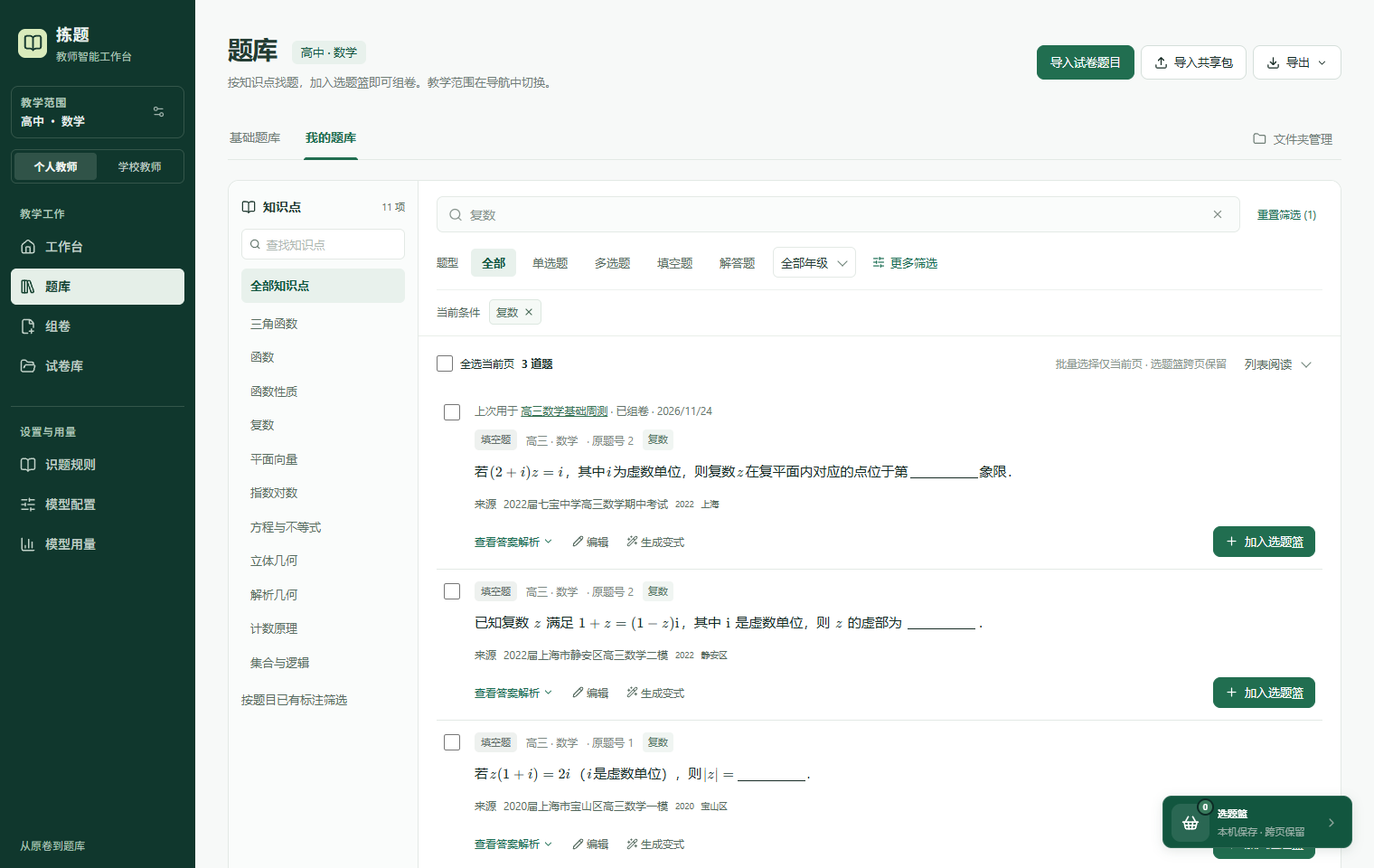
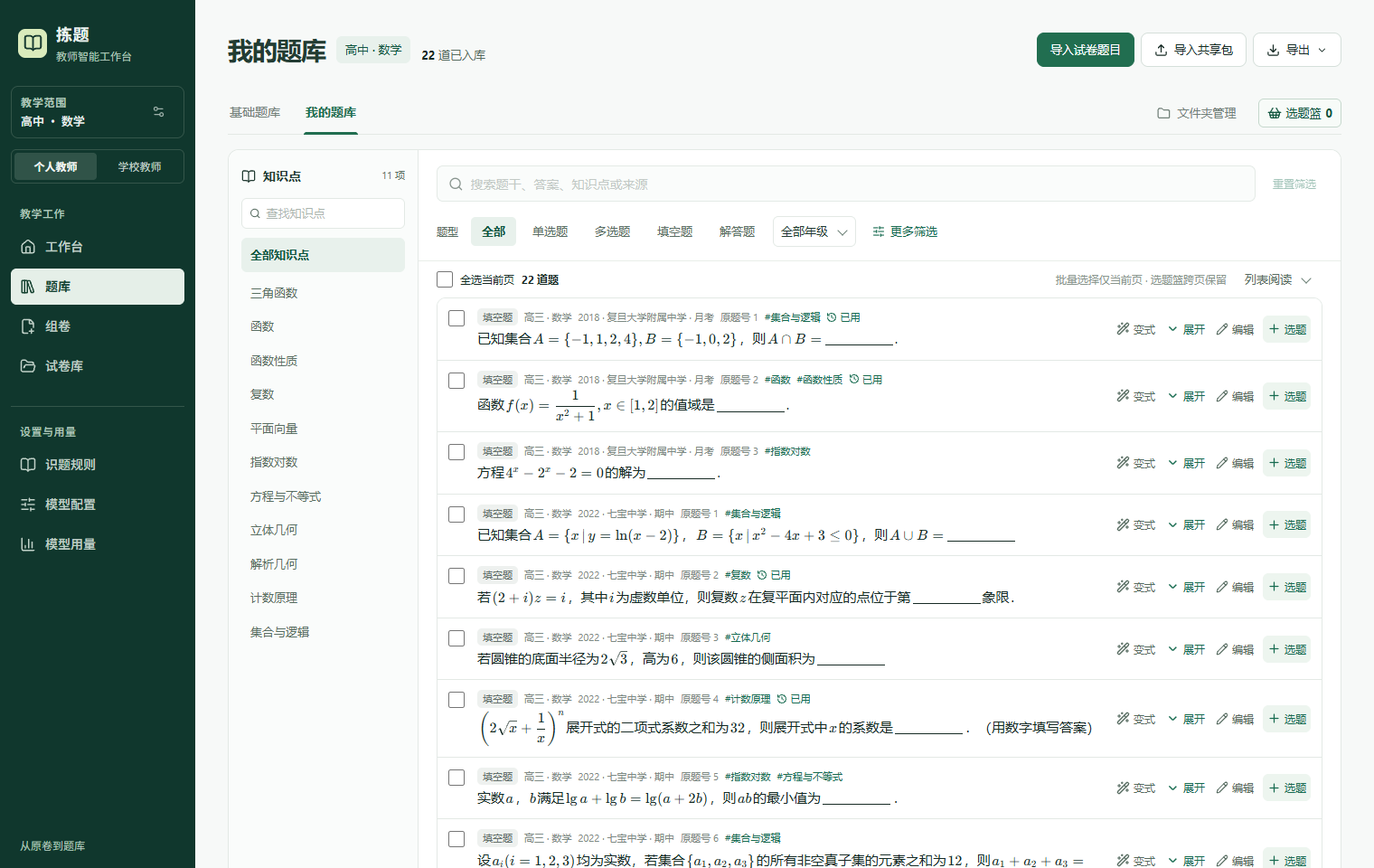
ui: 压紧题库列表并将操作移至右侧

diff --git a/components/QuestionBank.tsx b/components/QuestionBank.tsx
@@ -17,6 +17,7 @@ import {
   Folder,
   FolderOpen,
   FolderPlus,
+  History,
   House,
   ImageIcon,
   LoaderCircle,
@@ -325,7 +326,7 @@ export function QuestionBank({
     return () => {
       document.removeEventListener("keydown", handleKey);
       // The collapsed trigger is remounted when the dialog closes.
-      (document.querySelector<HTMLButtonElement>(".bank-explorer-page .question-basket-trigger") ?? (previous?.isConnected ? previous : null))?.focus();
+      (document.querySelector<HTMLButtonElement>(".bank-explorer-page .bank-open-basket") ?? (previous?.isConnected ? previous : null))?.focus();
     };
   }, [basketOpen]);
 
@@ -658,7 +659,11 @@ export function QuestionBank({
   return (
     <div className="page-shell bank-page bank-explorer-page">
       <header className="bank-page-header">
-        <div className="bank-title-row"><h1>题库 <span className="bank-scope-label">{stageLabel(stage)} · {subject}</span></h1><p className="resource-intro">按知识点找题，加入选题篮即可组卷。教学范围在导航中切换。</p></div>
+        <div className="bank-title-row">
+          <h1>{library === "personal" ? "我的题库" : "基础题库"}</h1>
+          <span className="bank-scope-label">{stageLabel(stage)} · {subject}</span>
+          {library === "personal" && <span className="bank-count-summary"><strong>{bankStats.approved}</strong> 道已入库{bankStats.withAssets > 0 && " · " + bankStats.withAssets + " 道含图"}</span>}
+        </div>
         <div className="bank-header-actions"><Link className="btn btn-primary" href="/?import=1">导入试卷题目</Link>
           <input ref={importInput} type="file" accept=".jianti" hidden onChange={(event) => { const file = event.target.files?.[0]; if (file) void importPackage(file); }} />
           <button type="button" className="btn" disabled={importing} onClick={() => importInput.current?.click()}>{importing ? <LoaderCircle size={15} className="spin" /> : <Upload size={15} />} 导入共享包</button>
@@ -671,7 +676,12 @@ export function QuestionBank({
         </div>
       </header>
 
-      <div className="resource-tabs" role="tablist" aria-label="题库范围"><button role="tab" aria-selected={library === "platform"} onClick={() => setLibrary("platform")}>基础题库</button><button role="tab" aria-selected={library === "personal"} onClick={() => setLibrary("personal")}>我的题库</button>{library === "personal" && <button className="resource-folder-toggle" aria-expanded={foldersOpen} onClick={() => setFoldersOpen(!foldersOpen)}><Folder size={15} /> 文件夹管理</button>}</div>
+      <div className="bank-tabbar">
+        <div className="resource-tabs" role="tablist" aria-label="题库范围"><button role="tab" aria-selected={library === "platform"} onClick={() => setLibrary("platform")}>基础题库</button><button role="tab" aria-selected={library === "personal"} onClick={() => setLibrary("personal")}>我的题库</button>{library === "personal" && <button className="resource-folder-toggle" aria-expanded={foldersOpen} onClick={() => setFoldersOpen(!foldersOpen)}><Folder size={15} /> 文件夹管理</button>}</div>
+        <button type="button" className="bank-open-basket" aria-label={"打开选题篮，" + basket.items.length + " 道题"} aria-expanded={basketOpen} onClick={() => setBasketOpen(true)}>
+          <ShoppingBasket size={16} />选题篮 <b>{basket.items.length}</b>
+        </button>
+      </div>
       {library === "platform" && <section className="resource-unavailable">
         <div className="bank-platform-categories" role="tablist" aria-label="平台资源分类"><button role="tab" aria-selected={platformCategory === "model"} onClick={() => setPlatformCategory("model")}>模卷</button><button role="tab" aria-selected={platformCategory === "school"} onClick={() => setPlatformCategory("school")}>名校试卷</button></div>
         <h2>平台精选资源尚未开放</h2><p>{platformCategory === "model" ? "模卷将按教学与考试场景组织。" : "名校试卷将按学校与试卷来源组织。"}目前还没有可供浏览的已发布资源。</p><p>个人上传、共享包和 AI 变式保存在「我的题库」，已有选题篮会继续保留。</p><button className="btn" onClick={() => setLibrary("personal")}>浏览我的题库</button>
@@ -752,20 +762,62 @@ export function QuestionBank({
                 const checked = selectedIds.has(question.id);
                 const inBasket = basketIds.has(question.id);
                 const expanded = question.id in expandedIds;
-                const sourceLabel = [question.source.year, question.source.region, question.source.textbook, question.source.school, question.source.examType].filter(Boolean).join(" · ") || question.source.documentName;
+                const sourceLabel = [question.source.year, question.source.school || question.source.region, question.source.examType].filter(Boolean).join(" · ") || question.source.documentName;
+                const used = question.lastUsed;
+                const usageLabel = used ? [used.paperTitle, used.className, new Date(used.usedAt).toLocaleDateString("zh-CN", { timeZone: "Asia/Shanghai" })].filter(Boolean).join(" · ") : undefined;
                 return <article key={question.id} className={`question-card ${checked ? "selected " : ""}${expanded ? "expanded" : ""}`}>
                   <SelectionCheckbox label={`选择第 ${question.number} 题 · ${question.source.documentName}`} checked={checked} disabled={selectionBusy} onChange={() => toggle(question)} />
-                  <div className="question-card-main">{question.lastUsed && <p className="question-usage">上次用于 <Link href={`/papers/${encodeURIComponent(question.lastUsed.paperId)}`}>{question.lastUsed.paperTitle}</Link>{question.lastUsed.className ? ` · ${question.lastUsed.className}` : " · 已组卷"} · {new Date(question.lastUsed.usedAt).toLocaleDateString("zh-CN", { timeZone: "Asia/Shanghai" })}</p>}<div className="question-meta"><span className="pill gray">{typeLabels[question.type]}</span><span>{question.source.grade} · {question.source.subject}</span><span className="source-question-number">· 原题号 {question.number}</span>{isVariationQuestion(question) && <span className="variation-badge"><WandSparkles size={11} /> AI 变式</span>}{question.variationReview?.mode === "multi_agent" && <span className={`variation-review-badge ${question.variationReview.status}`}><Check size={10} /> {question.variationReview.status === "revised" ? "审校后修订" : "双 Agent 审校"}</span>}{question.variationReview?.mode === "rules" && <span className="variation-review-badge rules"><Check size={10} /> 规则校验</span>}{question.source.origin === "imported" && <span className="shared-badge"><PackageOpen size={11} /> 共享包</span>}{question.assets.length > 0 && <span className="has-image"><ImageIcon size={12} /> 含图</span>}{question.tags.slice(0, 3).map((tag) => <button type="button" className="question-tag" key={tag} onClick={() => { setActiveTag(tag); setPage(1); }}>{tag}</button>)}{question.tags.length > 3 && <span className="question-tag">+{question.tags.length - 3}</span>}</div>
-                    <button type="button" className="question-stem" onClick={() => toggleExpanded(question.id)} aria-expanded={expanded}><span className="question-stem-text"><MathText text={stripLeadingQuestionNumber(question.stem, question.number)} /></span></button>
-                    <div className="question-details">{question.assets.some((asset) => asset.role === "question" && asset.url) && <div className="bank-question-assets">{question.assets.filter((asset) => asset.role === "question" && asset.url).map((asset) => <figure key={asset.id}><Image src={asset.url!} width={asset.width ?? 720} height={asset.height ?? 480} alt={asset.label || "题图"} unoptimized /><figcaption>{asset.label || "题图"}</figcaption></figure>)}</div>}{question.options?.length ? <div className="bank-options">{question.options.map((option) => <span key={option.key}><b>{option.key}</b><MathText text={option.content} /></span>)}</div> : null}{expanded && (question.answer || question.analysis || question.assets.some(a => a.role === "answer")) && <div className="answer-preview">{question.answer && <div><b>答案</b><MathText text={question.answer} /></div>}{(question.analysis || question.assets.some(a => a.role === "answer")) && <div><b>解析</b><AnalysisWithImages text={question.analysis} assets={question.assets} /></div>}</div>}{expanded && question.variationKind && <p className="variation-note"><WandSparkles size={12} /> 变式说明：{question.variationKind.split(":").slice(1).join(":") || "基于原题生成"}</p>}{expanded && question.variationReview && <div className="variation-review-detail"><strong>{question.variationReview.mode === "multi_agent" ? `独立审校${question.variationReview.score !== null ? ` · ${question.variationReview.score} 分` : ""}` : "已通过结构与安全规则校验"}</strong>{question.variationReview.reviewer && <span>审校：{question.variationReview.reviewer}</span>}{question.variationReview.issues.length > 0 && <span>修订记录：{question.variationReview.issues.join("；")}</span>}</div>}</div>
+                  <div className="question-card-main">
+                    <div className="question-meta">
+                      <span className="pill gray">{typeLabels[question.type]}</span>
+                      <span className="question-grade">{question.source.grade} · {question.source.subject}</span>
+                      <button type="button" className="question-source-link" title={question.source.documentName} aria-label={"按来源筛选：" + question.source.documentName} onClick={() => { setSource(question.source.documentId); setPage(1); }}>{sourceLabel}</button>
+                      <span className="source-question-number">原题号 {question.number}</span>
+                      {isVariationQuestion(question) && <span className="variation-badge"><WandSparkles size={11} /> AI 变式</span>}
+                      {question.variationReview?.mode === "multi_agent" && <span className={"variation-review-badge " + question.variationReview.status}><Check size={10} /> {question.variationReview.status === "revised" ? "审校后修订" : "双 Agent 审校"}</span>}
+                      {question.variationReview?.mode === "rules" && <span className="variation-review-badge rules"><Check size={10} /> 规则校验</span>}
+                      {question.source.origin === "imported" && <span className="shared-badge"><PackageOpen size={11} /> 共享包</span>}
+                      {question.assets.length > 0 && <span className="has-image"><ImageIcon size={12} /> 含图</span>}
+                      {question.tags.slice(0, 3).map(tag => <button type="button" className="question-tag" key={tag} onClick={() => { setActiveTag(tag); setPage(1); }}>{tag}</button>)}
+                      {question.tags.length > 3 && <span className="question-tag" title={question.tags.slice(3).join("、")}>+{question.tags.length - 3}</span>}
+                      {used && <Link className="question-usage" href={"/papers/" + encodeURIComponent(used.paperId)} title={usageLabel} aria-label={"上次用于 " + usageLabel}><History size={12} />已用</Link>}
+                    </div>
+                    <button type="button" className="question-stem" onClick={() => toggleExpanded(question.id)} aria-expanded={expanded}>
+                      <span className="question-stem-text"><MathText text={stripLeadingQuestionNumber(question.stem, question.number)} /></span>
+                    </button>
                   </div>
-                  <div className="question-source-line" title={`${question.source.documentName} · ${sourceLabel}`}><span>来源</span><button type="button" onClick={() => { setSource(question.source.documentId); setPage(1); }}>{question.source.documentName}</button>{question.source.year && <small>{question.source.year}</small>}{question.source.region && <small>{question.source.region}</small>}</div>
-                  <div className="question-actions">
-                    <button type="button" className="row-action expand-action" onClick={() => toggleExpanded(question.id)} aria-expanded={expanded}>{expanded ? "收起答案解析" : "查看答案解析"}<ChevronDown size={13} /></button>
-                    {question.source.origin === "original" && !question.source.sourceRemoved && <Link className="row-action" href={`/review/${question.source.documentId}?question=${encodeURIComponent(question.id)}`}><Pencil size={13} /> 编辑</Link>}
-                    {!isVariationQuestion(question) && !question.needsHumanReview ? <button type="button" className="row-action" onClick={() => openVariation(question)}><WandSparkles size={13} /> 生成变式</button> : question.needsHumanReview ? <span className="source-removed">复核后可生成</span> : null}
-                    <button type="button" className={`btn question-add-to-basket${inBasket ? " in-basket" : " btn-primary"}`} disabled={!basket.ready} aria-pressed={inBasket} onClick={() => inBasket ? basket.replace(basket.items.filter(item => item.id !== question.id)) : addToBasket([question])}>{inBasket ? <Check size={15} /> : <Plus size={15} />}{inBasket ? "移出选题篮" : "加入选题篮"}</button>
+                  <div className="question-actions" role="group" aria-label="题目操作">
+                    {!isVariationQuestion(question) && !question.needsHumanReview
+                      ? <button type="button" className="row-action" title="生成变式" aria-label="生成变式" onClick={() => openVariation(question)}><WandSparkles size={15} /><span>变式</span></button>
+                      : question.needsHumanReview && <span className="source-removed">待复核</span>}
+                    <button type="button" className="row-action expand-action" onClick={() => toggleExpanded(question.id)} aria-expanded={expanded} aria-label={expanded ? "收起答案解析" : "查看答案解析"} title={expanded ? "收起答案解析" : "查看选项、答案与解析"}>
+                      <ChevronDown size={15} /><span>{expanded ? "收起" : "展开"}</span>
+                    </button>
+                    {question.source.origin === "original" && !question.source.sourceRemoved && <Link className="row-action" title="编辑" aria-label="编辑" href={"/review/" + question.source.documentId + "?question=" + encodeURIComponent(question.id)}><Pencil size={14} /><span>编辑</span></Link>}
+                    <button type="button" className={"row-action question-add-to-basket" + (inBasket ? " in-basket" : "")} disabled={!basket.ready} aria-label={inBasket ? "移出选题篮" : "加入选题篮"} title={inBasket ? "移出选题篮" : "加入选题篮"} aria-pressed={inBasket} onClick={() => inBasket ? basket.replace(basket.items.filter(item => item.id !== question.id)) : addToBasket([question])}>
+                      {inBasket ? <Check size={15} /> : <Plus size={15} />}<span>{inBasket ? "已选" : "选题"}</span>
+                    </button>
                   </div>
+                  {(expanded || viewMode === "tiles") && <div className="question-details">
+                    {question.assets.some(asset => asset.role === "question" && asset.url) && <div className="bank-question-assets">
+                      {question.assets.filter(asset => asset.role === "question" && asset.url).map(asset => <figure key={asset.id}>
+                        <Image src={asset.url!} width={asset.width ?? 720} height={asset.height ?? 480} alt={asset.label || "题图"} unoptimized />
+                        <figcaption>{asset.label || "题图"}</figcaption>
+                      </figure>)}
+                    </div>}
+                    {!!question.options?.length && <div className="bank-options">{question.options.map(option => <span key={option.key}><b>{option.key}</b><MathText text={option.content} /></span>)}</div>}
+                    {expanded && (question.answer || question.analysis || question.assets.some(asset => asset.role === "answer")) && <div className="answer-preview">
+                      {question.answer && <div><b>答案</b><MathText text={question.answer} /></div>}
+                      {(question.analysis || question.assets.some(asset => asset.role === "answer")) && <div><b>解析</b><AnalysisWithImages text={question.analysis} assets={question.assets} /></div>}
+                    </div>}
+                    {expanded && question.variationKind && <p className="variation-note"><WandSparkles size={12} /> 变式说明：{question.variationKind.split(":").slice(1).join(":") || "基于原题生成"}</p>}
+                    {expanded && question.variationReview && <div className="variation-review-detail">
+                      <strong>{question.variationReview.mode === "multi_agent" ? "独立审校" + (question.variationReview.score !== null ? " · " + question.variationReview.score + " 分" : "") : "已通过结构与安全规则校验"}</strong>
+                      {question.variationReview.reviewer && <span>审校：{question.variationReview.reviewer}</span>}
+                      {question.variationReview.issues.length > 0 && <span>修订记录：{question.variationReview.issues.join("；")}</span>}
+                    </div>}
+                    {expanded && used && <p className="expanded-usage">上次用于 <Link href={"/papers/" + encodeURIComponent(used.paperId)}>{usageLabel}</Link></p>}
+                  </div>}
                 </article>;
               })}
             </div>
@@ -778,15 +830,15 @@ export function QuestionBank({
       </>}
       {(basket.error || basket.message) && <p className="bank-basket-message" role={basket.error ? "alert" : "status"}>{basket.error || basket.message}</p>}
       {basketOpen && <button type="button" className="question-basket-backdrop" aria-label="收起选题篮" onClick={() => setBasketOpen(false)} />}
-      {basketOpen ? <aside ref={basketPanel} className="question-basket persistent-basket" role="dialog" aria-modal="true" aria-labelledby="basket-title">
+      {basketOpen && <aside ref={basketPanel} className="question-basket persistent-basket" role="dialog" aria-modal="true" aria-labelledby="basket-title">
         <header><div><span><ShoppingBasket size={18} /></span><div><strong id="basket-title">选题篮 · {basket.items.length} 道题</strong><small>{stageLabel(stage)}{subject} · 本机保存，跨页保留</small></div></div><button type="button" aria-label="收起选题篮" onClick={() => setBasketOpen(false)}><X size={16} /></button></header>
         <p className="basket-save-explainer">选题篮用于积累题目。进入编辑器后点击“保存试卷”，才会保存为组卷作品。</p>
         {basket.error && <p className="form-error" role="alert">{basket.error}</p>}
         {!basket.ready && !basket.error && <p className="basket-empty" role="status">正在校验选题篮…</p>}
-        {basket.ready && !basket.items.length && <p className="basket-empty">还没有选题。点击题目右下方“加入选题篮”，或勾选后批量加入。</p>}
+        {basket.ready && !basket.items.length && <p className="basket-empty">还没有选题。点击每题的加号，或勾选后批量加入。</p>}
         <ol>{basket.items.map((question, index) => <li key={question.id}><b>{index + 1}</b><div><span>{typeLabels[question.type]} · {question.source.grade}</span><p><MathText text={question.stem} /></p><small>{question.source.documentName}</small></div><div className="basket-item-actions"><button type="button" aria-label={`上移第 ${index + 1} 题`} disabled={!basket.ready || index === 0} onClick={() => basket.replace(moveOrderedItem(basket.items, index, -1))}><ArrowUp size={13} /></button><button type="button" aria-label={`下移第 ${index + 1} 题`} disabled={!basket.ready || index === basket.items.length - 1} onClick={() => basket.replace(moveOrderedItem(basket.items, index, 1))}><ArrowDown size={13} /></button><button type="button" aria-label={`移出选题篮第 ${index + 1} 题`} disabled={!basket.ready} onClick={() => basket.replace(basket.items.filter(item => item.id !== question.id))}><X size={13} /></button></div></li>)}</ol>
         <footer><button type="button" className="btn" disabled={!basket.items.length && !basket.error} onClick={async () => { if (await requestDelete("选题篮中的选题")) basket.replace([]); }}>清空选题篮</button><div>{basket.ready && basket.items.length > 0 && <><a href={`/api/exports/questions${basketExportIds}format=package`}><PackageOpen size={13} />导出选题</a><Link href={basketHref} className="btn btn-primary"><FilePlus2 size={15} />进入组卷</Link></>}</div></footer>
-      </aside> : <button type="button" className="question-basket-trigger" aria-label={`打开选题篮，${basket.items.length} 道题`} aria-expanded="false" onClick={() => setBasketOpen(true)}><span><ShoppingBasket size={20} /><b>{basket.items.length}</b></span><i><strong>选题篮</strong><small>{basket.ready ? "本机保存 · 跨页保留" : basket.error ? "需要检查" : "正在恢复…"}</small></i><ChevronRight size={16} /></button>}
+      </aside>}
 
 
       {variationTarget && <div className="variation-dialog-backdrop" role="presentation" onMouseDown={(event) => {

diff --git a/app/teacher-workflow.css b/app/teacher-workflow.css
@@ -1,5 +1,3 @@
-.question-usage { color: #65746b; font-size: 12px; margin: 0 0 12px; }
-.question-usage a { color: #357254; text-decoration: underline; }
 .teaching-draft { padding: 16px; display: grid; gap: 12px; margin-bottom: 18px; }
 .teaching-draft h2 { margin: 0; font-size: 18px; }
 .teaching-draft label { display: grid; gap: 6px; font-size: 13px; }
@@ -15,6 +13,152 @@
 .undo-toast button { background: white; color: #213d30; padding: 6px 14px; border-radius: 6px; flex-shrink: 0; }
 .review-word-import { display: flex; align-items: flex-start; gap: 9px; border-bottom: 1px solid #dce5df; padding: 9px 18px; background: #f6f9f7; color: #365548; }.review-word-import > svg { flex: 0 0 auto; margin-top: 1px; }.review-word-import > div { min-width: 0; flex: 1; }.review-word-import strong { display: block; font-size: 12px; }.review-word-import p { margin: 3px 0 0; font-size: 11px; line-height: 1.5; }.review-word-import ul { margin: 3px 0 0; padding-left: 16px; font-size: 11px; line-height: 1.5; color: #8b4c20; }
 
-.bank-explorer-page .question-cards:not(.tiles) .question-card { padding-block: 13px; }
 .paper-order-main .paper-adjust-toggle { display: block; width: auto; margin-top: 3px; padding: 0; color: var(--green); font-size: 11px; }
 .review-workspace .question-rail > button[aria-current] { padding-block: 7px; }
+
+.bank-explorer-page .bank-title-row {
+  display: flex;
+  flex-wrap: wrap;
+  align-items: baseline;
+  gap: 6px 12px;
+}
+.bank-explorer-page .bank-title-row .bank-scope-label { margin: 0; align-self: center; }
+.bank-count-summary { color: var(--muted); font-size: 13px; }
+.bank-count-summary strong { color: var(--ink); }
+.bank-explorer-page .bank-list-head { min-height: 40px; padding-block: 6px; }
+
+.bank-explorer-page .question-cards.list {
+  container-type: inline-size;
+  border: 1px solid var(--resource-border);
+  border-radius: 10px;
+}
+.bank-explorer-page .question-cards.list .question-card {
+  grid-template-columns: 20px minmax(0, 1fr) auto;
+  gap: 0 12px;
+  align-items: start;
+  padding: 11px 12px;
+}
+.bank-explorer-page .question-card .question-meta {
+  gap: 3px 7px;
+  min-height: 18px;
+  font-size: 11px;
+  line-height: 1.4;
+}
+.bank-explorer-page .question-card .question-meta .pill { padding: 2px 6px; }
+.bank-explorer-page .question-meta .question-source-link {
+  max-width: min(100%, 22em);
+  overflow: hidden;
+  text-overflow: ellipsis;
+  white-space: nowrap;
+  cursor: pointer;
+  color: inherit;
+  font: inherit;
+}
+.bank-explorer-page .question-meta .question-source-link:hover { text-decoration: underline; color: var(--green); }
+.bank-explorer-page .question-meta .question-tag { background: transparent; color: var(--green); padding: 1px 0; }
+.bank-explorer-page .question-meta button.question-tag::before { content: "#"; }
+.bank-explorer-page .question-meta .question-usage { display: inline-flex; align-items: center; gap: 3px; color: var(--green); }
+.bank-explorer-page .question-cards.list .question-stem { margin-top: 3px; }
+.bank-explorer-page .question-cards.list .question-stem,
+.bank-explorer-page .question-cards.list .question-stem p { font-size: 15px; line-height: 1.55; }
+.bank-explorer-page .question-cards.list .question-actions {
+  grid-column: 3;
+  grid-row: 1;
+  align-self: center;
+  justify-content: flex-end;
+  flex-wrap: nowrap;
+  width: auto;
+  gap: 2px;
+  margin: 0;
+  padding: 0;
+}
+.bank-explorer-page .question-card .question-actions .row-action {
+  gap: 4px;
+  min-height: 30px;
+  padding: 0 5px;
+  font-size: 12px;
+  line-height: 1;
+}
+.bank-explorer-page .question-card .question-actions .question-add-to-basket {
+  margin: 0 0 0 3px;
+  color: var(--green);
+  background: #edf5ef;
+}
+.bank-explorer-page .question-card .question-actions .in-basket { background: var(--green); color: white; }
+.bank-explorer-page .question-cards.list .question-actions .row-action:hover { color: var(--green-dark); background: #dfede3; }
+.bank-explorer-page .question-card .question-details {
+  grid-column: 2 / -1;
+  min-width: 0;
+  max-width: 100%;
+  overflow-wrap: anywhere;
+}
+.bank-explorer-page .question-card .expanded-usage { margin: 8px 0 0; color: var(--muted); font-size: 12px; }
+.bank-explorer-page .expanded-usage a { color: var(--green); text-decoration: underline; }
+
+@container (max-width: 750px) {
+  .question-cards.list .question-actions .row-action > span { display: none; }
+  .bank-explorer-page .question-cards.list .question-actions .row-action { width: 30px; padding: 0; }
+}
+@container (max-width: 440px) {
+  .bank-explorer-page .question-cards.list .question-card { padding: 10px 7px; grid-template-columns: 18px minmax(0,1fr) auto; gap: 0 6px; }
+  .bank-explorer-page .question-cards.list .question-actions { display: grid; grid-template-columns: repeat(2, 30px); gap: 2px; }
+  .bank-explorer-page .question-cards.list .question-add-to-basket { margin: 0; }
+  .question-cards.list .question-grade { display: none; }
+}
+.bank-tabbar {
+  position: sticky;
+  top: 0;
+  z-index: 9;
+  display: flex;
+  align-items: center;
+  gap: 14px;
+  margin-bottom: 16px;
+  border-bottom: 1px solid var(--resource-border);
+  background: var(--bg, #f7f9f8);
+}
+.bank-tabbar .resource-tabs { flex: 1; margin: 0; border: 0; }
+.bank-open-basket {
+  display: inline-flex;
+  align-items: center;
+  flex-shrink: 0;
+  gap: 5px;
+  padding: 5px 9px;
+  border: 1px solid #c6d8cd;
+  border-radius: 6px;
+  background: #f7fbf8;
+  color: var(--green-dark);
+  cursor: pointer;
+  font-size: 13px;
+}
+.bank-open-basket b { font-variant-numeric: tabular-nums; }
+.knowledge-mobile-toggle { display: none; }
+@media (max-width: 600px) {
+  .bank-explorer-page .bank-page-header { margin-bottom: 10px; }
+  .bank-tabbar { gap: 4px; margin-bottom: 10px; }
+  .bank-tabbar .resource-tabs { gap: 10px; }
+  .bank-tabbar .resource-tabs button { font-size: 12px; }
+  .bank-tabbar .resource-folder-toggle { padding-inline: 0; }
+  .bank-open-basket { font-size: 12px; padding-inline: 6px; }
+  .bank-explorer-page .knowledge-navigator { padding: 0 12px; }
+  .bank-explorer-page .knowledge-navigator header,
+  .knowledge-navigator[data-open="false"] .knowledge-controls { display: none; }
+  .knowledge-mobile-toggle {
+    display: flex;
+    align-items: center;
+    gap: 7px;
+    width: 100%;
+    min-height: 40px;
+    font-size: 13px;
+    color: var(--green-dark);
+    cursor: pointer;
+  }
+  .knowledge-mobile-toggle span { margin-left: auto; color: var(--muted); }
+  .knowledge-mobile-toggle[aria-expanded="true"] > svg:last-child { transform: rotate(180deg); }
+  .bank-explorer-page .knowledge-navigator nav { flex-wrap: wrap; overflow-y: auto; }
+  .bank-explorer-page .knowledge-navigator nav > button { width: auto; }
+  .bank-explorer-page .bank-toolbar.explorer-toolbar { padding: 10px 12px; }
+  .bank-explorer-page .bank-type-options { flex-wrap: nowrap; gap: 1px; }
+  .bank-explorer-page .bank-type-options button { padding-inline: 6px; font-size: 12px; }
+  .bank-explorer-page .bank-list-tools > span { display: none; }
+  .bank-explorer-page .explorer-content { padding-inline: 8px; }
+}

diff --git a/components/KnowledgeFilter.tsx b/components/KnowledgeFilter.tsx
@@ -1,17 +1,23 @@
 "use client";
 
-import { useState } from "react";
-import { BookOpen, Search, X } from "lucide-react";
+import { useId, useState } from "react";
+import { BookOpen, ChevronDown, Search, X } from "lucide-react";
 
 export function KnowledgeFilter({ tags, value, onChange }: { tags: string[]; value: string; onChange: (tag: string) => void }) {
   const [query, setQuery] = useState("");
+  const [mobileOpen, setMobileOpen] = useState(false);
+  const filtersId = useId();
   const visible = tags.filter(tag => tag.toLocaleLowerCase().includes(query.trim().toLocaleLowerCase()));
-  return <section className="knowledge-navigator" aria-label="知识点导航">
+  return <section className="knowledge-navigator" data-open={mobileOpen} aria-label="知识点导航">
     <header><BookOpen size={16} /><strong>知识点</strong><span>{tags.length} 项</span></header>
-    <label className="knowledge-search"><Search size={14} /><input aria-label="筛选知识点" placeholder="查找知识点" value={query} onChange={event => setQuery(event.target.value)} />{query && <button type="button" aria-label="清空知识点搜索" onClick={() => setQuery("")}><X size={13} /></button>}</label>
-    <button type="button" className="knowledge-all" aria-pressed={value === "全部"} onClick={() => onChange("全部")}>全部知识点</button>
-    <nav aria-label="题目知识点">{visible.map(tag => <button type="button" key={tag} aria-pressed={value === tag} title={tag} onClick={() => onChange(tag)}>{tag}</button>)}</nav>
-    {!tags.length ? <p>尚无知识点标注。审核题目时可补充，已有标签会显示在这里。</p> : !visible.length ? <p>没有匹配的知识点</p> : null}
-    <small>按题目已有标注筛选</small>
+    <button className="knowledge-mobile-toggle" type="button" aria-expanded={mobileOpen} aria-controls={filtersId} onClick={() => setMobileOpen(!mobileOpen)}>
+      <BookOpen size={15} /><strong>知识点</strong><span>{value === "全部" ? "全部知识点" : value}</span><ChevronDown size={14} />
+    </button>
+    <div id={filtersId} className="knowledge-controls">
+      <label className="knowledge-search"><Search size={14} /><input aria-label="筛选知识点" placeholder="查找知识点" value={query} onChange={event => setQuery(event.target.value)} />{query && <button type="button" aria-label="清空知识点搜索" onClick={() => setQuery("")}><X size={13} /></button>}</label>
+      <button type="button" className="knowledge-all" aria-pressed={value === "全部"} onClick={() => onChange("全部")}>全部知识点</button>
+      <nav aria-label="题目知识点">{visible.map(tag => <button type="button" key={tag} aria-pressed={value === tag} title={tag} onClick={() => onChange(tag)}>{tag}</button>)}</nav>
+      {!tags.length ? <p>尚无知识点标注。审核题目时可补充，已有标签会显示在这里。</p> : !visible.length ? <p>没有匹配的知识点</p> : null}
+    </div>
   </section>;
 }

diff --git a/app/resource-management.css b/app/resource-management.css
@@ -327,10 +327,6 @@
 .bank-explorer-page .question-card-main { min-width:0; }
 .bank-explorer-page .question-meta .question-tag { border:0; background:#f0f5f2; color:#537564; padding:3px 6px; border-radius:4px; font-size:11px; cursor:pointer; }
 .bank-explorer-page .question-stem { font-size:15px; line-height:1.85; }
-.bank-explorer-page .question-source-line { grid-column:2; display:flex; align-items:center; gap:8px; min-width:0; padding:4px 0; color:#566b60; font-size:12px; }
-.bank-explorer-page .question-source-line button { max-width:80%; text-align:left; color:inherit; font-size:inherit; border:0; background:none; padding:0; overflow:hidden; white-space:nowrap; text-overflow:ellipsis; cursor:pointer; }
-.bank-explorer-page .question-source-line button:hover { color:var(--green); text-decoration:underline; }
-.bank-explorer-page .question-source-line small { white-space:nowrap; }
 .bank-explorer-page .question-actions { flex-wrap:wrap; width:100%; max-width:none; gap:8px; padding-top:4px; }
 .bank-explorer-page .question-actions .row-action { border:0; background:transparent; color:var(--muted); padding:0 6px; }
 .bank-explorer-page .question-actions .expand-action { color:var(--green); padding-left:0; }

diff --git a/docs/features.md b/docs/features.md
@@ -53,7 +53,7 @@
 - 混合共享包按原始题目范围分别创建导入目录。识别并发、自动 AI 复核开关以及队列整体暂停仍为账号级设置，队列控制按钮明确标注“所有学科”。
 
 - 已审核题目支持服务端分页，以及题干、答案、标签和来源全文检索。
-- 题库采用类似 Windows 11 文件资源管理器的双栏结构，支持多层自定义文件夹、路径栏、列表/平铺视图和批量移动。
+- 题库支持多层自定义文件夹、路径栏、列表／平铺视图和批量移动。紧凑列表将来源、原题号与标签排在题干上方，右侧可展开选项与解析、编辑、生成变式或加入选题篮。
 - 除自定义文件夹外，还会按年级、地区和教材版本生成不改变原数据的智能目录。
 - 可按题型、来源和知识点筛选，并导出 JSON、Markdown 或 `.jianti` 共享包。
 - 支持小学、初中、高中和学科范围切换；模型只能从对应范围的预制或教师扩充标签目录中选择标签。
